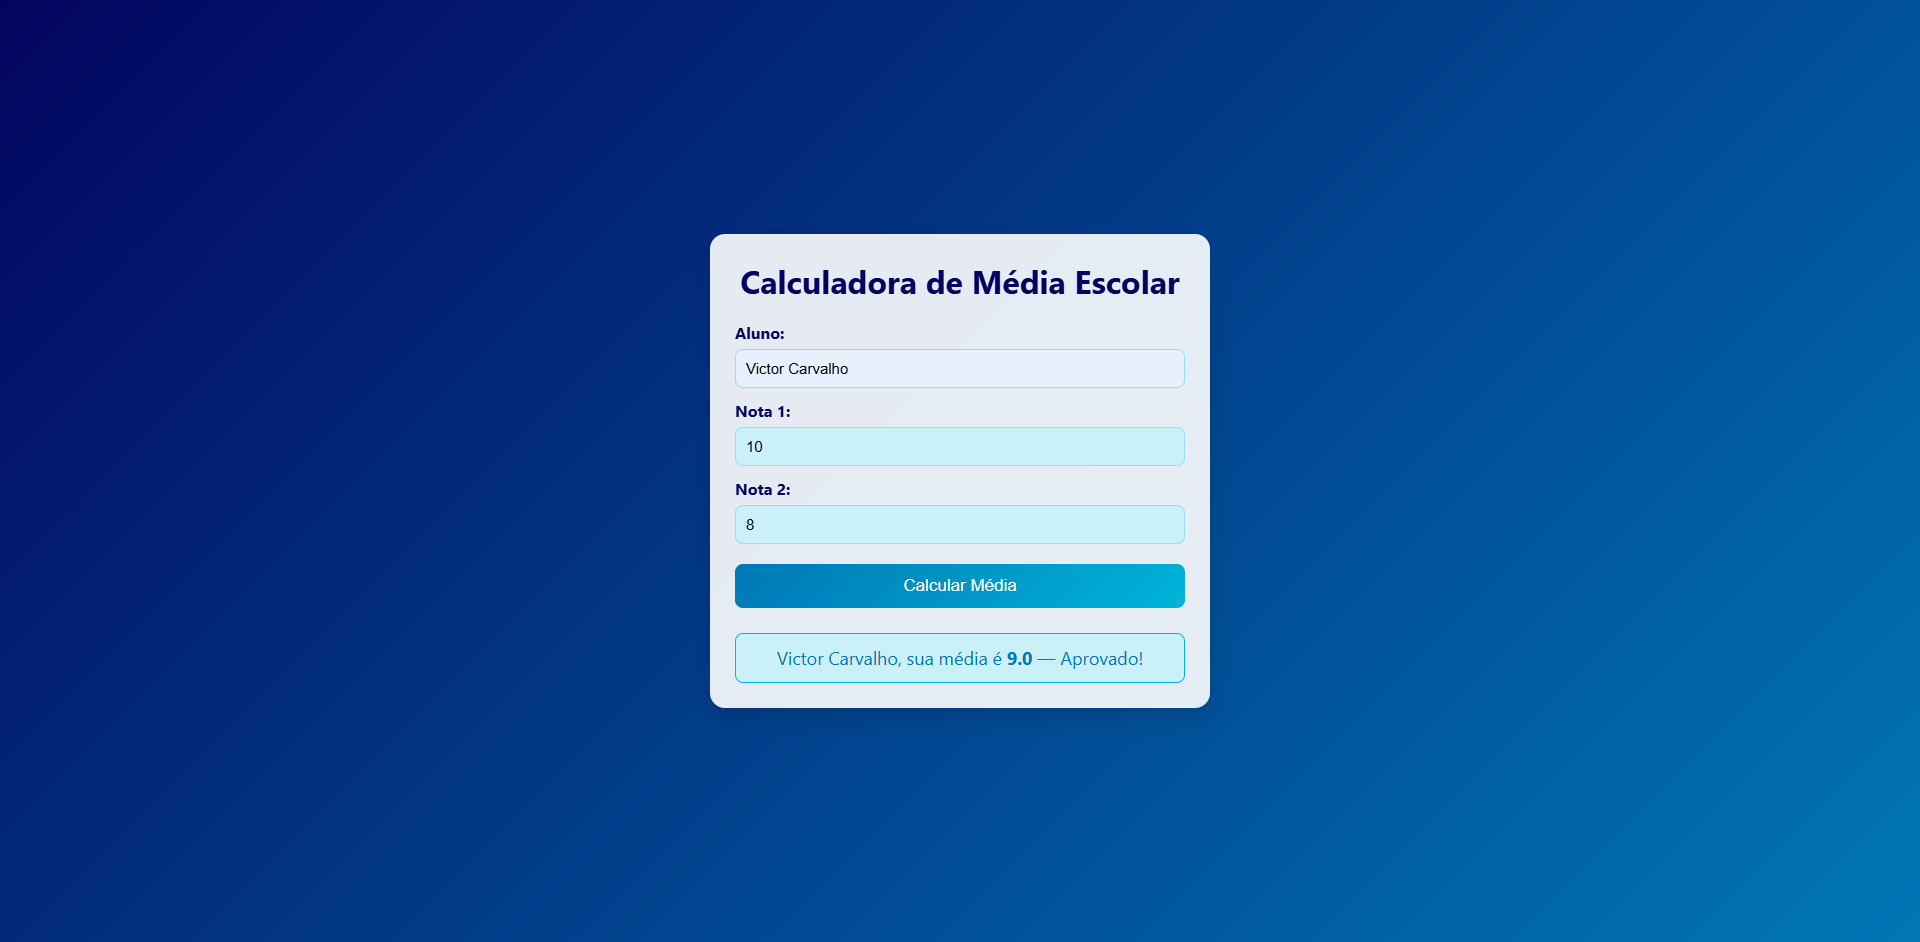
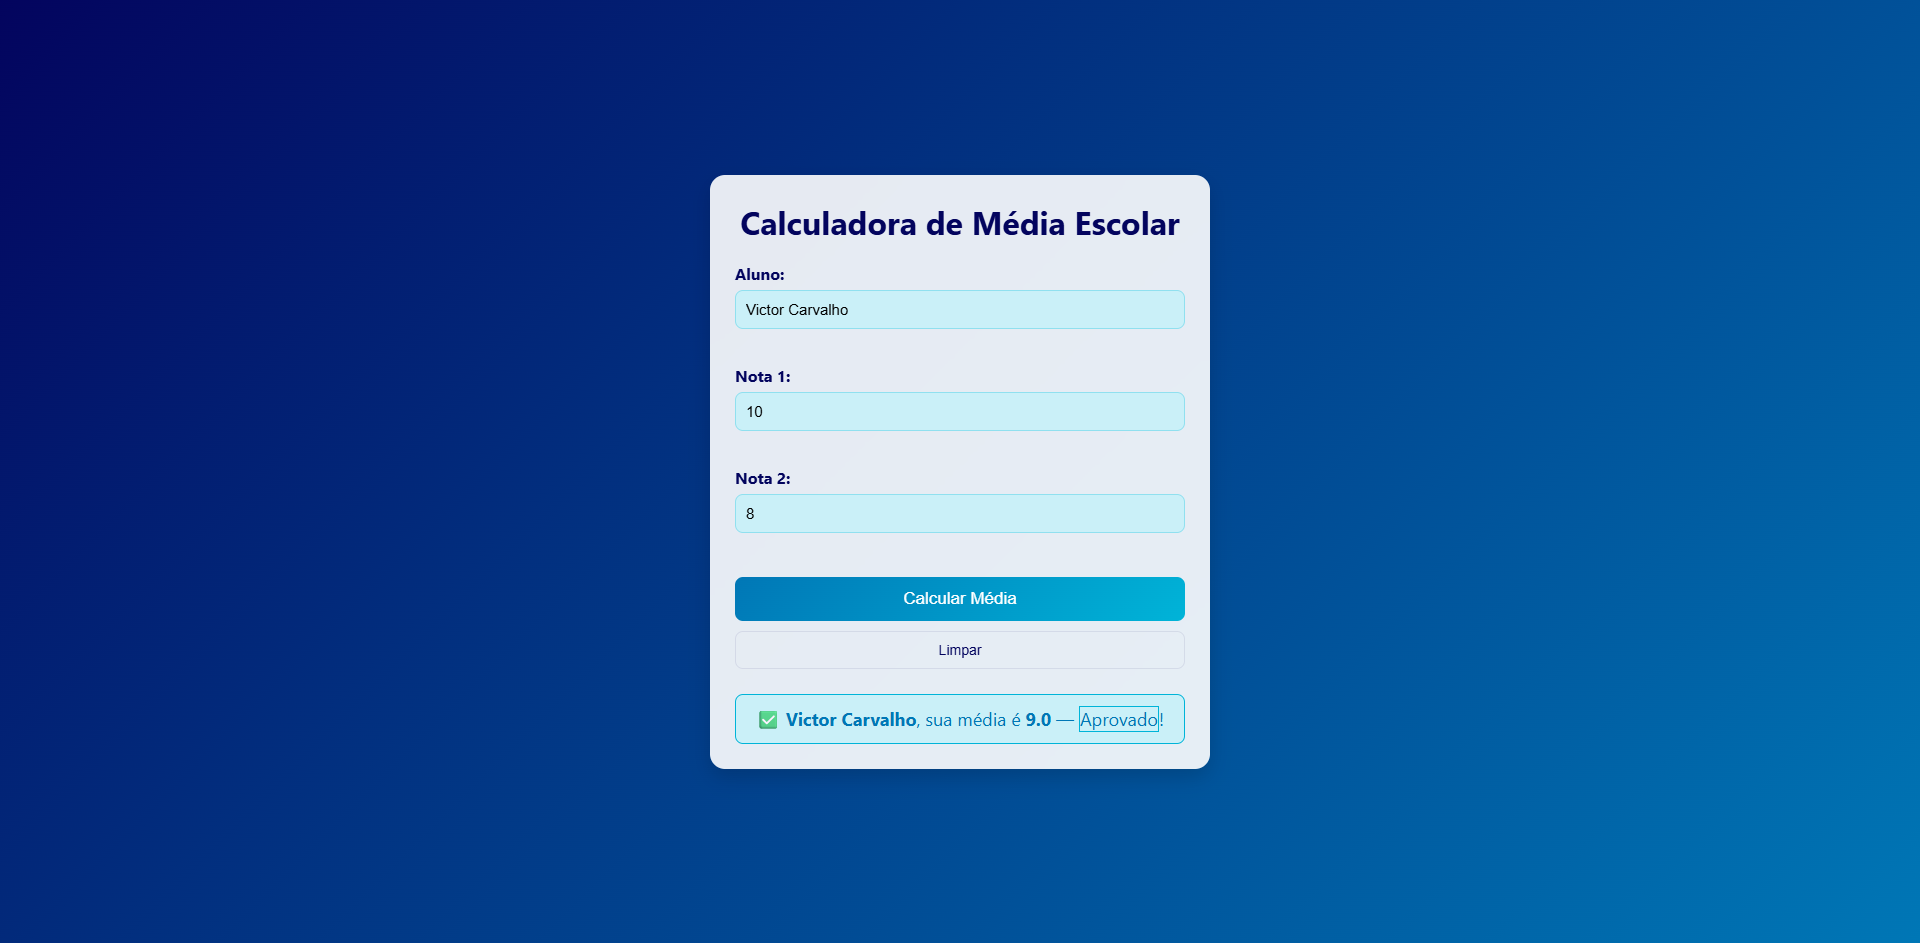
docs: atualizar README.md com melhorias de descrição e roadmap

Changed region(s): [[0.3438, 0.2771, 0.6562, 0.8312], [0.3438, 0.1847, 0.6562, 0.2463]]

diff --git a/README.md b/README.md
@@ -2,7 +2,7 @@
 
 [![GitHub](https://img.shields.io/badge/GitHub-Repo-181717?logo=github)](https://github.com/victorcarvalhob/calculadora-media-escolar) [![GitHub Pages](https://img.shields.io/badge/GitHub%20Pages-Online-brightgreen)](https://victorcarvalhob.github.io/calculadora-media-escolar/)
 
-> Uma **calculadora de média escolar** simples feita com HTML, CSS e JavaScript — construída como projeto de estudo para praticar manipulação do DOM, validação básica e design responsivo. A simplicidade é proposital; funcionalidades mais avançadas serão adicionadas à medida que eu for evoluindo nos estudos. 🚀
+> Uma **calculadora de média escolar** simples construída com HTML, CSS e JavaScript como projeto de estudo — foco em manipulação do DOM, validação, acessibilidade e design responsivo. A simplicidade é proposital; novas funcionalidades serão adicionadas conforme eu evoluir nos estudos. 🚀
 
 ---
 
@@ -28,8 +28,23 @@
 ## 🛠 Tecnologias
 
 * HTML5
-* CSS3 (responsividade + animações simples)
-* JavaScript (ES6+)
+* CSS3 (responsividade, transições e micro-interações)
+* JavaScript (ES6+) — manipulação do DOM, validação e acessibilidade
+
+---
+
+## 🧾 Atualizações recentes
+
+**Refatoração (feat)**
+
+* Remoção de `onclick` inline — uso de `form` + `addEventListener` para melhor semântica e usabilidade.
+* Validação robusta por campo (nome obrigatório, notas numéricas entre 0 e 10).
+* Mensagens de erro por campo e destaque visual de inputs inválidos (`.input-erro`).
+* Acessibilidade: `aria-live` e `aria-invalid` adicionados; `role="status"` no resultado para leitores de tela.
+* Pequena melhoria de UX: estado de processamento "Calculando..." e botão de limpar (`Limpar`).
+* Proteção básica contra injeção de HTML no nome do aluno (escape).
+
+Essas mudanças deixam o projeto mais legível, testável e acessível — pontos positivos para o portfólio.
 
 ---
 
@@ -42,15 +57,9 @@
   * **Aprovado**: média ≥ 7
   * **Reprovado**: média < 7
 * Feedback visual com classes CSS (`.aprovado`, `.reprovado`) e transições.
+* Validação por campo e indicações visuais de erro.
 * Layout responsivo para dispositivos móveis.
-
----
-
-## 🎯 Por que esse projeto? (objetivo de estudo)
-
-* Praticar captura de inputs e manipulação do DOM com JavaScript.
-* Aplicar estilos modernos e responsivos com CSS.
-* Testar fluxo de desenvolvimento: estrutura do projeto, commits e deploy via GitHub Pages.
+* Acessibilidade básica para leitores de tela.
 
 ---
 
@@ -58,61 +67,28 @@
 
 ```
 calculadora-media-escolar/
-├── index.html      # marcação
-├── style.css       # estilos e responsividade
-└── script.js       # lógica de cálculo
+├── index.html      # marcação semântica (form)
+├── style.css       # estilos, responsividade e micro-interações
+├── script.js       # validação, lógica de cálculo e acessibilidade
+└── images/         # screenshots e assets
 ```
 
 ---
 
 ## ✅ Roadmap / Melhorias planejadas
 
-Este projeto é um **work-in-progress**. Abaixo estão as melhorias que planejo implementar — sinta-se à vontade para sugerir ou contribuir.
+Projeto em andamento — itens que planejo implementar nas próximas versões:
 
-* [ ] Adicionar **mais notas** (não ficar limitado a 2)
-* [ ] Transformar `nota1` e `nota2` em um **array dinâmico de notas**
-* [ ] **Calcular automaticamente** a média para qualquer quantidade de notas
-* [ ] **Salvar histórico de alunos** (localStorage / backend simples)
-* [ ] Criar um **array de registros**: `[{ nome, media, situacao }]`
-* [ ] Exibir uma **lista de todas as médias calculadas** ao final
-* [ ] **Validação de inputs**: impedir campos em branco e notas fora do intervalo válid
-* [ ] Exibir **mensagem de alerta** se algum valor estiver incorreto
-* [ ] Interatividade extra: **reiniciar formulário** sem recarregar a página
-* [ ] UX: **destacar médias altas** com cores diferentes / badges
+* [ ] Adicionar **mais notas** (suporte a N notas)
+* [ ] Transformar `nota1` e `nota2` em um **array dinâmico de notas** e calcular automaticamente
+* [ ] **Média ponderada** (opção de escolher pesos por nota)
+* [ ] **Salvar histórico** de cálculos (localStorage) e mostrar lista de registros
+* [ ] Testes unitários simples (funções de cálculo/validação)
+* [ ] Melhorar a UI/UX: ícones SVG, micro-animações e estados (success/error)
+* [ ] Dark mode com toggle
+* [ ] Aprimorar a acessibilidade (mais testes com leitores de tela)
 
-> As próximas fases incluirão testes unitários rápidos e, possivelmente, integração com um backend leve para persistência.
-
----
-
-## ⚡ Uso rápido (local)
-
-Clone o repositório e abra `index.html` no navegador:
-
-```bash
-# clonar
-git clone https://github.com/victorcarvalhob/calculadora-media-escolar.git
-cd calculadora-media-escolar
-# abrir index.html no navegador (ex: double click ou usar Live Server)
-```
-
----
-
-## 🤝 Como contribuir
-
-Contribuições são bem-vindas — mesmo que seja só uma sugestão de UX ou correção de código.
-
-1. Faça um fork do projeto
-2. Crie uma branch para sua feature: `git checkout -b feat/nova-funcionalidade`
-3. Faça commits claros e concisos
-4. Abra um pull request descrevendo a mudança
-
-Sugestões simples (issues) ou PRs com pequenas melhorias terão revisão rápida.
-
----
-
-## 🧾 Licença
-
-Este repositório está licenciado sob a [MIT License](LICENSE) — sinta-se livre para estudar, apontar melhorias e reutilizar partes para fins educacionais.
+> As próximas fases poderão incluir integração com um backend leve para persistência e endpoints para compartilhar resultados em formato JSON.
 
 ---
 
